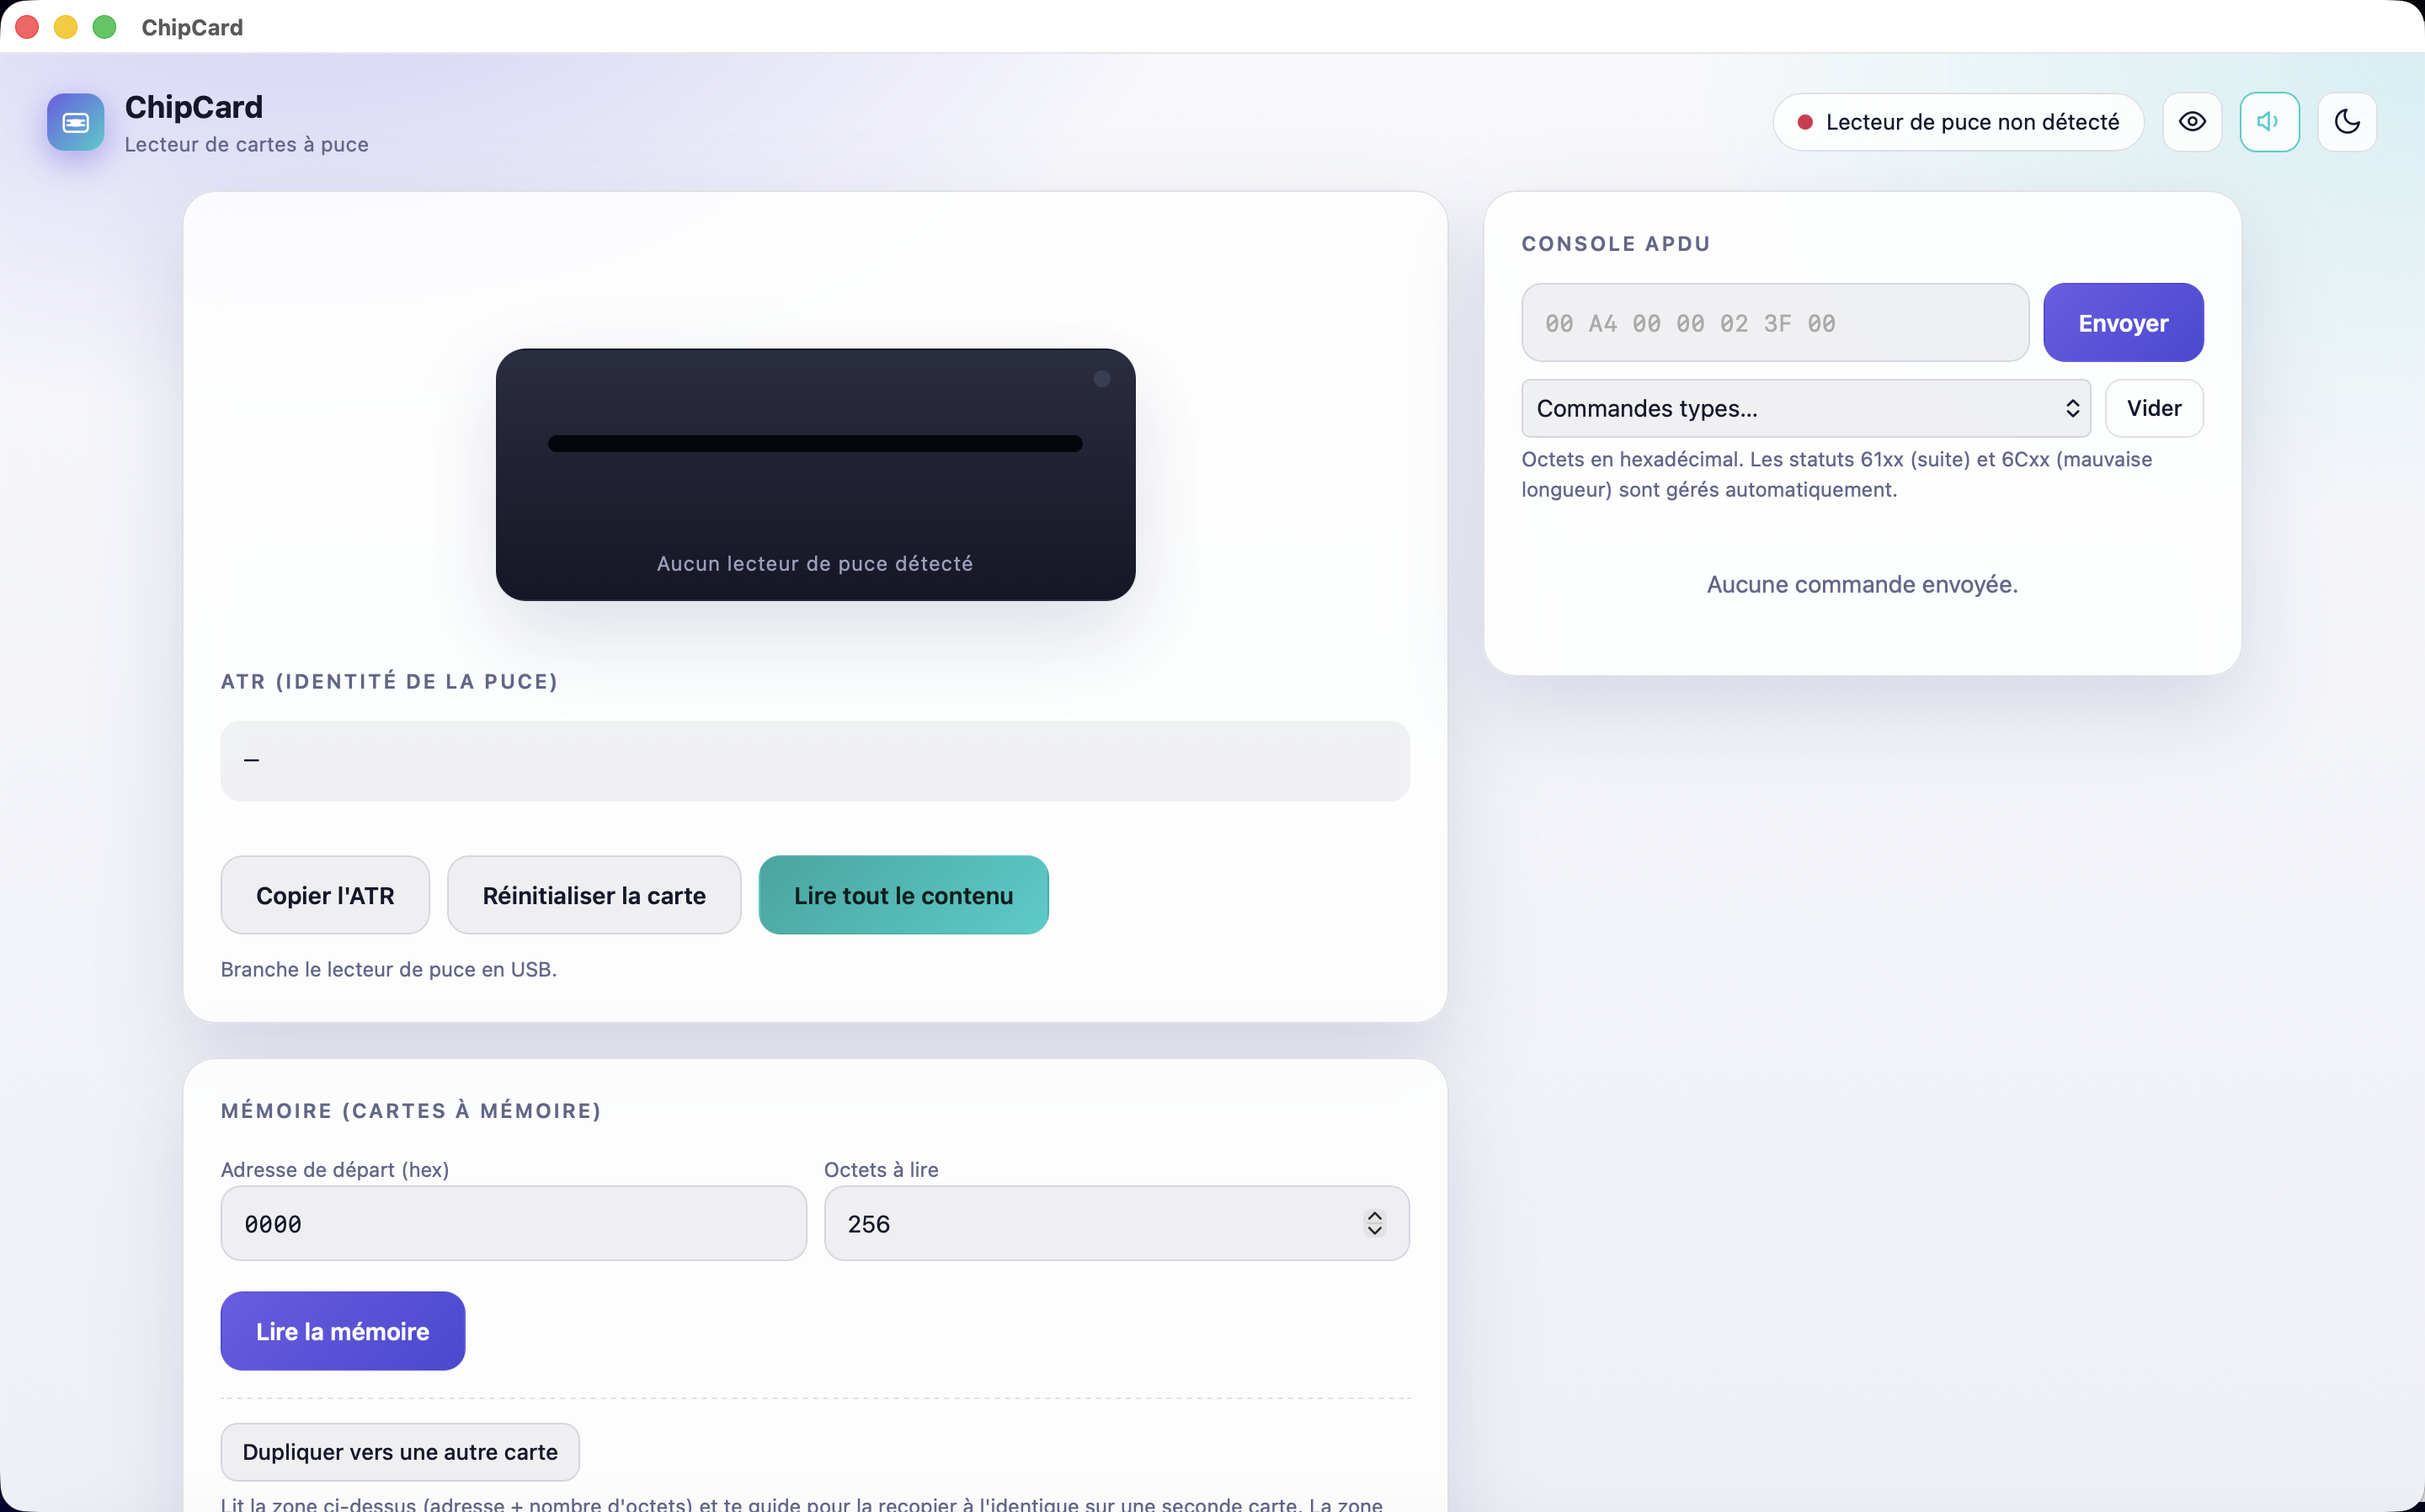
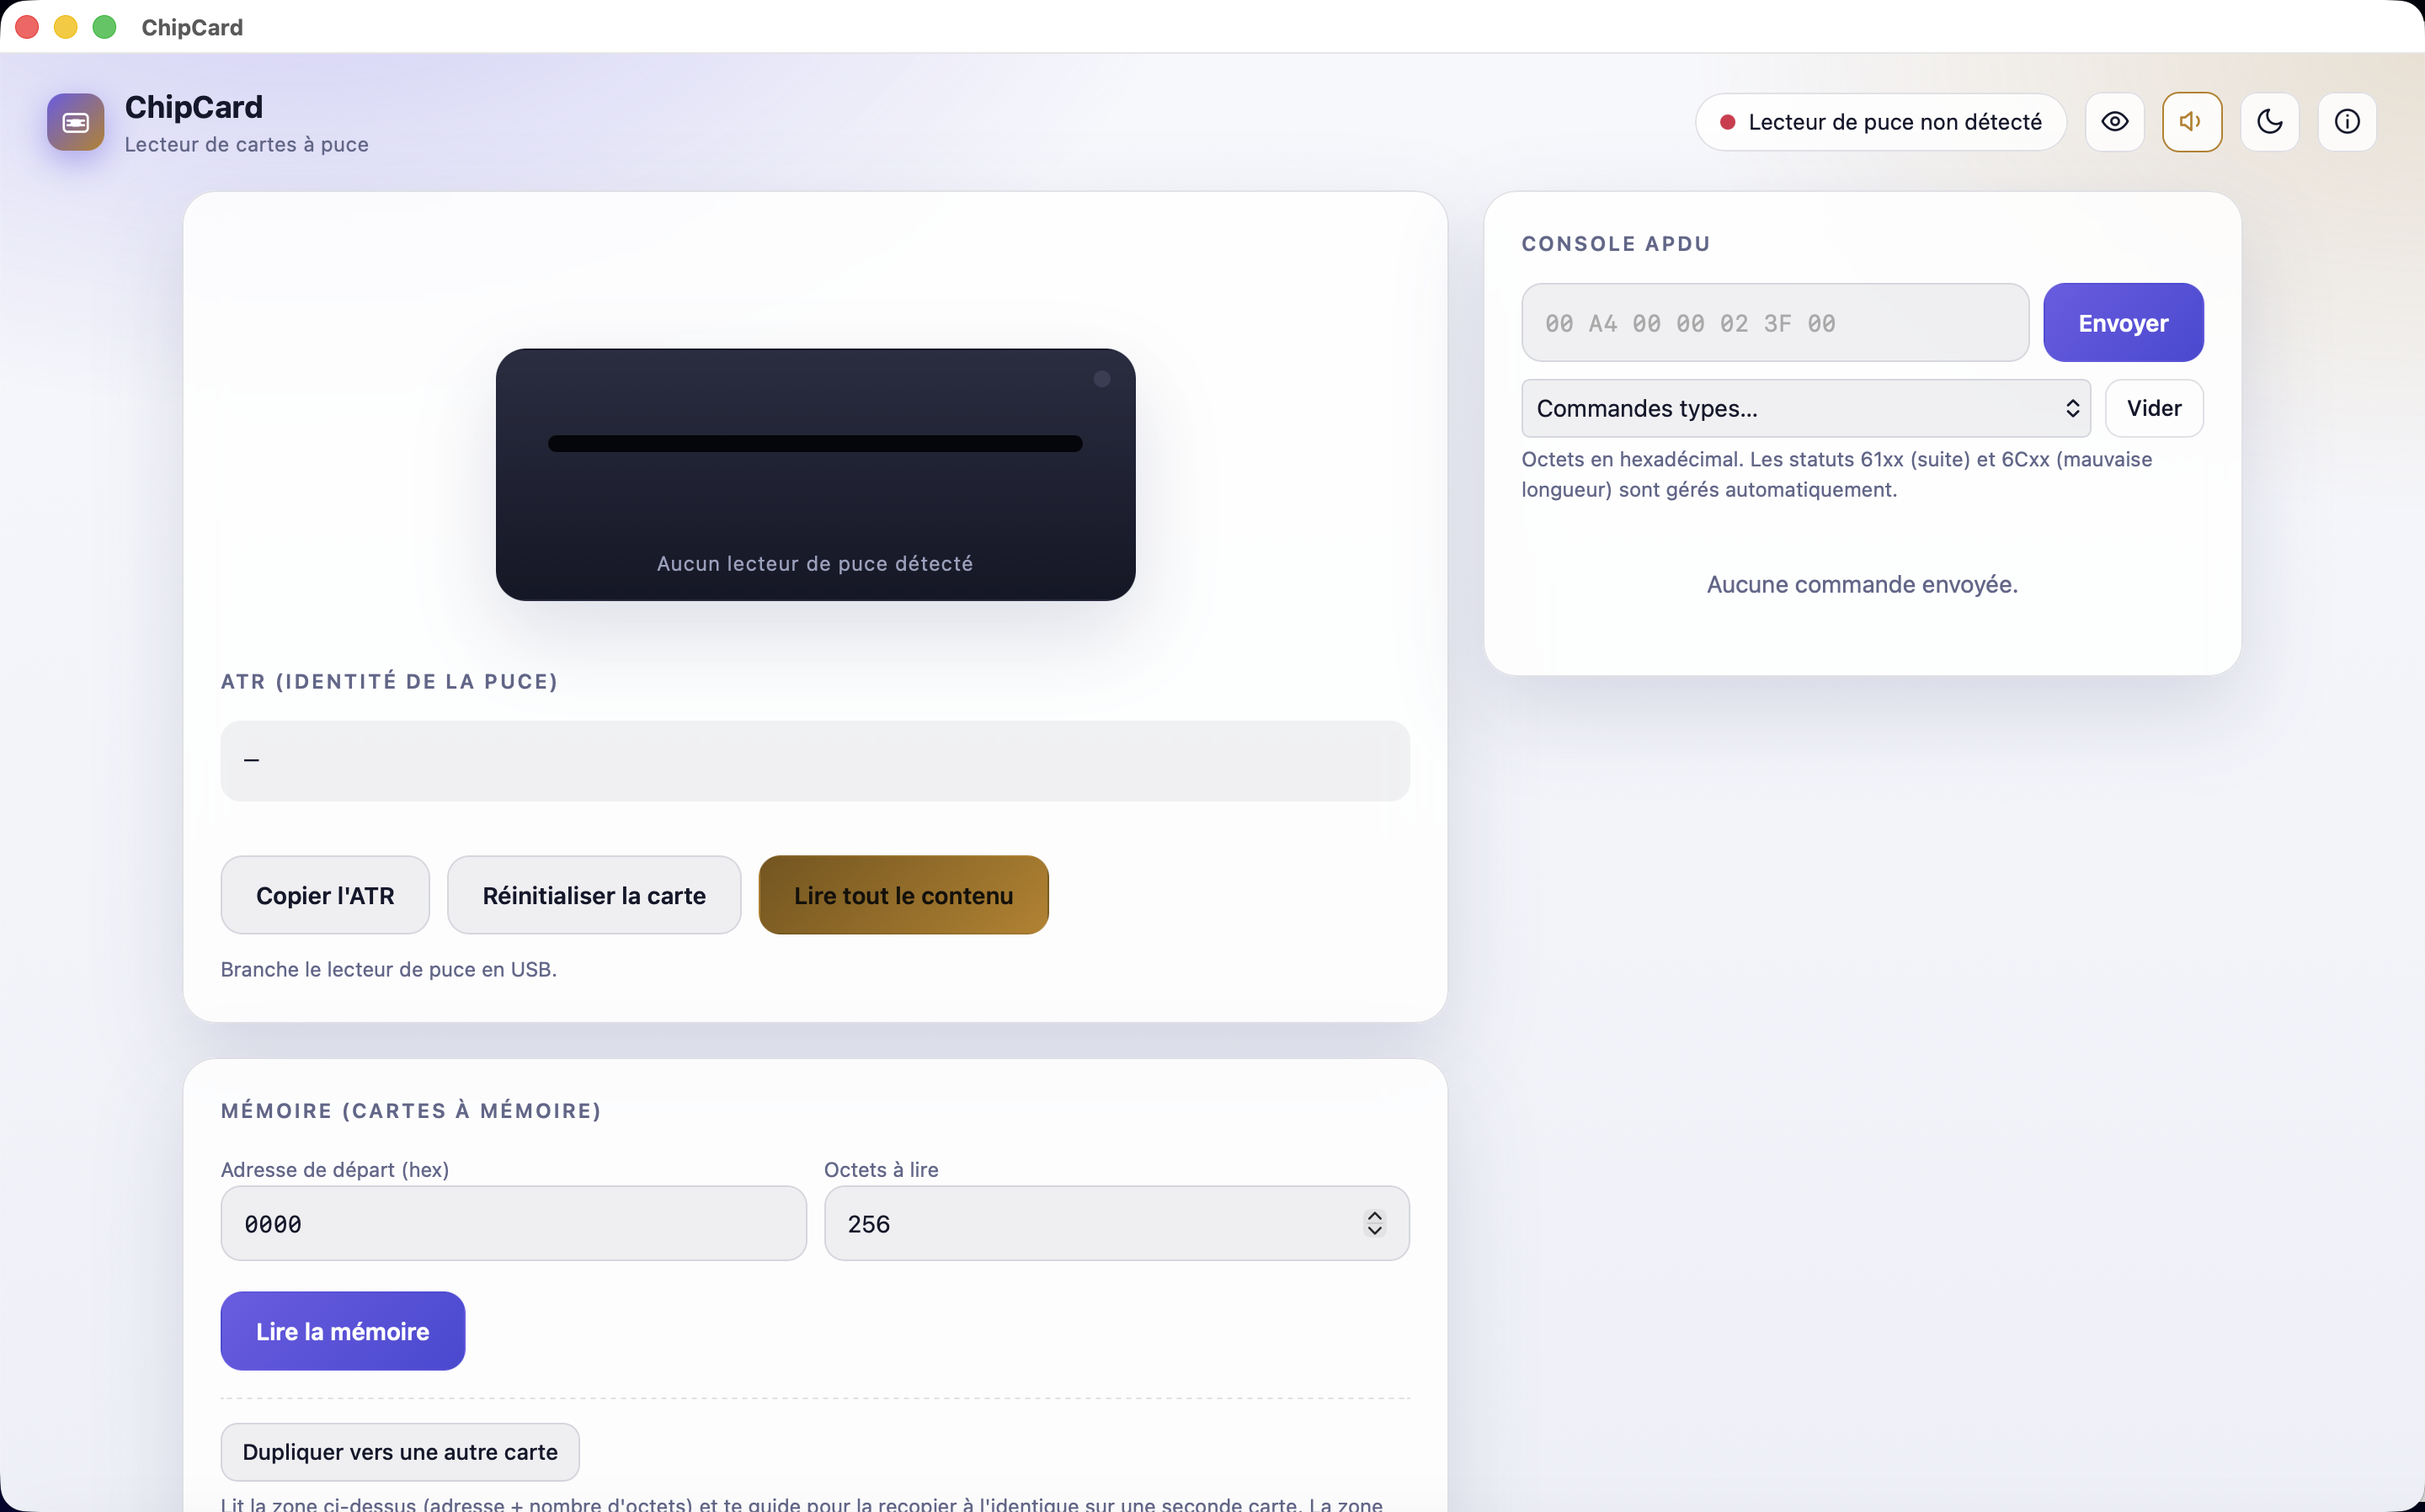
Identité visuelle propre (accent or) et fenêtre À propos ; dmg plus robuste

diff --git a/web/index.html b/web/index.html
@@ -16,6 +16,9 @@
     --line: rgba(20,24,60,.12); --text: #14172b; --muted: #61668a; --ok: #0ea36b; --warn: #c97a00; --bad: #d92d4b;
     --shadow: 0 20px 50px rgba(40,50,110,.15);
   }
+  /* ChipCard a sa propre couleur d'accent (or, assortie à son icône) pour ne pas être un simple clone de MagCard (turquoise). */
+  :root[data-app="chip"] { --a2: #d69e2e; }
+  :root[data-app="chip"][data-theme="light"] { --a2: #b9801a; }
   * { box-sizing: border-box; }
   html, body { margin: 0; min-height: 100%; }
   body {
@@ -107,7 +110,7 @@
   .btn:hover:not(:disabled) { transform: translateY(-1px); filter: brightness(1.12); }
   .btn:disabled { opacity: .4; cursor: not-allowed; }
   .btn.read { background: linear-gradient(135deg, var(--a1), #4a49d6); border-color: transparent; color: #fff; }
-  .btn.write { background: linear-gradient(135deg, #0aa7a1, var(--a2)); border-color: transparent; color: #04201f; }
+  .btn.write { background: linear-gradient(135deg, color-mix(in srgb, var(--a2) 65%, black), var(--a2)); border-color: transparent; color: #14110a; }
   .btn.erase { color: var(--bad); }
   .btn.small { padding: 7px 12px; font-size: 13px; border-radius: 10px; font-weight: 500; }
   .btn.ghost { background: transparent; }
@@ -198,6 +201,9 @@
   #content.blur .val { filter: blur(7px); transition: filter .2s; } #content.blur .val:hover { filter: none; }
   .raw { margin-top: 6px; }
   .raw summary { font-weight: 400; color: var(--muted); font-size: 12px; }
+  .modal-bg { position: fixed; inset: 0; background: rgba(0,0,0,.45); display: none; align-items: center; justify-content: center; z-index: 80; }
+  .modal-bg.on { display: flex; }
+  .modal { background: var(--bg1); border: 1px solid var(--line); border-radius: 20px; padding: 28px 32px; max-width: 360px; text-align: center; box-shadow: var(--shadow); }
 </style>
 </head>
 <body>
@@ -212,8 +218,24 @@
     <button class="icon-btn" id="bMask" title="Masquer les données (m)"><svg viewBox="0 0 24 24"><path d="M2 12s3.6-7 10-7 10 7 10 7-3.6 7-10 7S2 12 2 12z"/><circle cx="12" cy="12" r="3"/></svg></button>
     <button class="icon-btn" id="bSound" title="Sons"><svg viewBox="0 0 24 24"><path d="M11 5 6 9H3v6h3l5 4V5z"/><path d="M15.5 8.5a5 5 0 0 1 0 7"/></svg></button>
     <button class="icon-btn" id="bTheme" title="Thème clair / sombre"><svg viewBox="0 0 24 24"><path d="M21 12.8A9 9 0 1 1 11.2 3a7 7 0 0 0 9.8 9.8z"/></svg></button>
+    <button class="icon-btn" id="bAbout" title="À propos"><svg viewBox="0 0 24 24"><circle cx="12" cy="12" r="9"/><path d="M12 11v6"/><circle cx="12" cy="7.5" r="1" fill="currentColor" stroke="none"/></svg></button>
   </div>
 </header>
+
+<div class="modal-bg" id="aboutBg">
+  <div class="modal">
+    <div class="logo" id="aboutLogo" style="width:56px;height:56px;border-radius:16px;margin:0 auto 14px"></div>
+    <h2 id="aboutName" style="margin:0 0 2px"></h2>
+    <div id="aboutVersion" style="margin-bottom:14px;color:var(--muted);font-size:13px"></div>
+    <p id="aboutDesc" style="margin:0 0 16px;color:var(--muted);font-size:13px;line-height:1.6"></p>
+    <div style="display:flex;gap:8px;justify-content:center;flex-wrap:wrap">
+      <a class="btn small" id="aboutRepo" target="_blank" rel="noopener" style="text-decoration:none;color:inherit;display:inline-block">Voir le code sur GitHub</a>
+      <a class="btn small" id="aboutSibling" target="_blank" rel="noopener" style="text-decoration:none;color:inherit;display:inline-block"></a>
+    </div>
+    <p style="margin:16px 0 0;color:var(--muted);font-size:12px">Licence MIT · © 2026 Wudstyz</p>
+    <button class="btn small" id="aboutClose" style="margin-top:16px">Fermer</button>
+  </div>
+</div>
 
 <div class="wrap view on" id="app">
   <div class="stack">
@@ -441,6 +463,10 @@
 <script>
 "use strict";
 const APP_MODE = "__APP_MODE__"; // "mag" | "chip" | "both" (both = dev, deux onglets)
+const APP_VERSION = "1.0";
+const APP_REPO = APP_MODE === 'chip' ? 'https://github.com/Wudstyz/ChipCard' : 'https://github.com/Wudstyz/MagCard';
+const SIBLING_REPO = APP_MODE === 'chip' ? 'https://github.com/Wudstyz/MagCard' : 'https://github.com/Wudstyz/ChipCard';
+if (APP_MODE === 'chip') document.documentElement.setAttribute('data-app', 'chip');
 const $ = id => document.getElementById(id);
 $('logo').innerHTML = APP_MODE === 'chip'
   ? '<svg viewBox="0 0 24 24" style="stroke:#fff;fill:none"><rect x="2.5" y="5" width="19" height="14" rx="3"/><rect x="8.5" y="9" width="7" height="6" rx="1.2" fill="#fff" stroke="none"/><path d="M8.5 11h7M8.5 13h7M5.5 10.2h3M5.5 13.8h3M15.5 10.2h3M15.5 13.8h3" stroke="#fff"/></svg>'
@@ -1055,6 +1081,20 @@ async function copyValue(text, btn) {
   }
 }
 document.querySelectorAll('[data-copy-src]').forEach(b => b.onclick = () => copyValue($(b.dataset.copySrc).value, b));
+
+/* ---------- à propos ---------- */
+$('aboutLogo').innerHTML = $('logo').innerHTML;
+$('aboutName').textContent = (APP_MODE === 'chip' ? 'ChipCard' : 'MagCard');
+$('aboutVersion').textContent = 'Version ' + APP_VERSION;
+$('aboutDesc').textContent = APP_MODE === 'chip'
+  ? "Lecture et écriture de cartes à puce (PC/SC) sur Mac."
+  : "Lecture et écriture de cartes à piste magnétique (MSR605X) sur Mac.";
+$('aboutRepo').href = APP_REPO;
+$('aboutSibling').href = SIBLING_REPO;
+$('aboutSibling').textContent = APP_MODE === 'chip' ? 'Voir aussi MagCard' : 'Voir aussi ChipCard';
+$('bAbout').onclick = () => $('aboutBg').classList.add('on');
+$('aboutClose').onclick = () => $('aboutBg').classList.remove('on');
+$('aboutBg').onclick = e => { if (e.target === $('aboutBg')) $('aboutBg').classList.remove('on'); };
 
 syncPrefs(); renderModels(); poll(); setMode(mode);
 </script>
